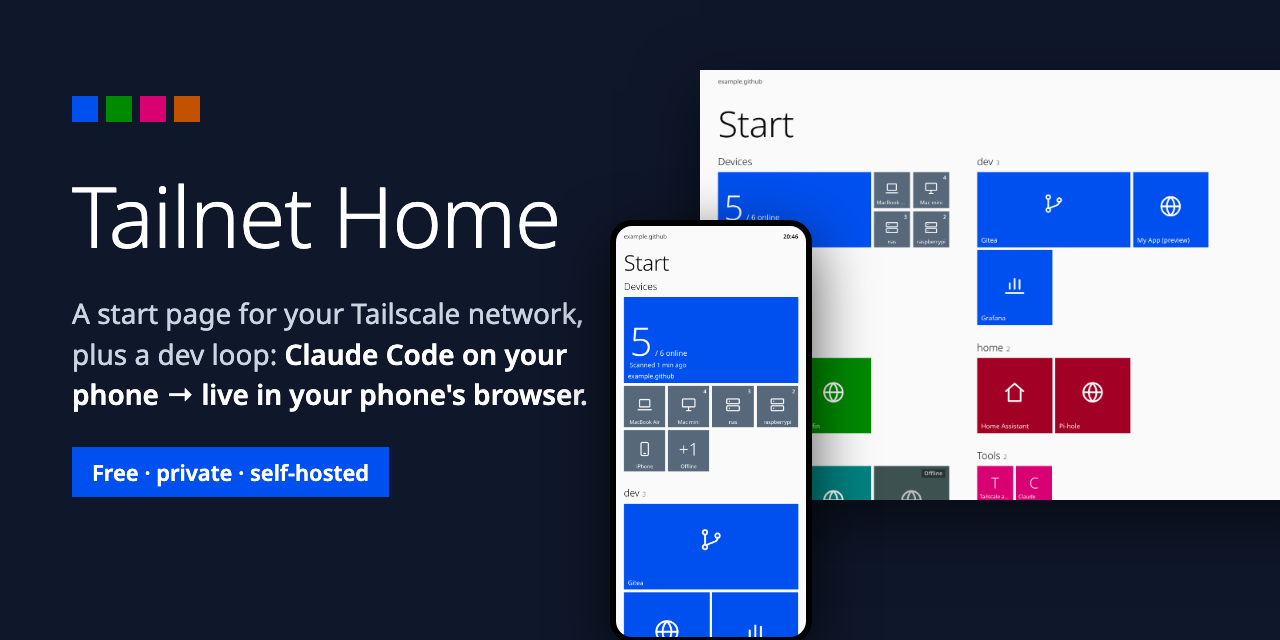
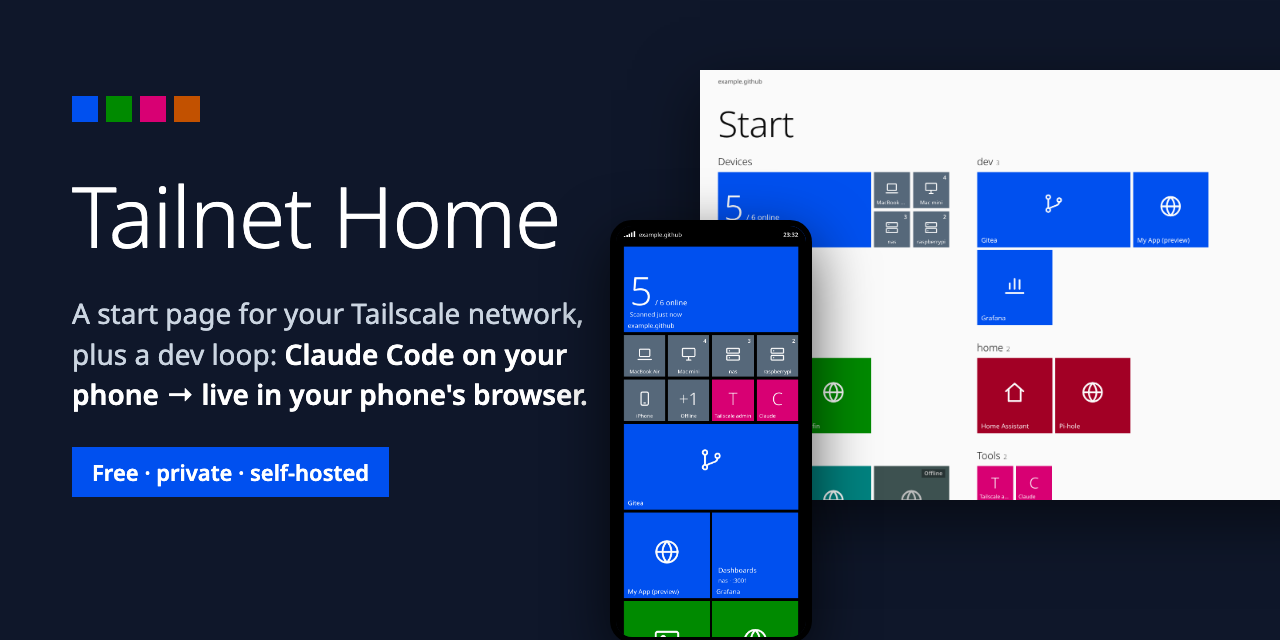
Make the phone layout feel like a Windows Phone 8.1 Start screen
- Black background, no title or group headers; all tiles flow into one
  4-column grid (group colors still tell them apart)
- Status bar with signal bars for the share of devices online
- Turnstile entrance: tiles swing in around the screen's left edge
- → button opens an A–Z list of all services; back gesture closes it
- Desktop layout unchanged; README phone screenshot and social preview updated

Claude-Session: https://claude.ai/code/session_01DGvx2EKGsNoc8kxAKM9xUm

Changed region(s): [[0.4688, 0.3438, 0.6562, 1.0]]

diff --git a/public/index.html b/public/index.html
@@ -121,6 +121,44 @@
            transform: translateY(-100%); transition: transform .35s var(--metro); }
   .toast.show { transform: none; }
 
+  /* 应用列表（手机）：Windows Phone 开始屏幕右下角箭头进入的字母列表 */
+  .to-apps, .apps { display: none; }
+
+  /* ── 手机：照 Windows Phone 8.1 开始屏幕 ── */
+  @media (max-width: 640px) {
+    :root { --bg: #000; --fg: #fff; --fg-2: oklch(0.7 0 0); }
+    body { background: #000; }
+    .wrap { padding-top: max(env(safe-area-inset-top), 4px); }
+    .tray { position: sticky; top: 0; z-index: 2; background: #000; margin: 0 -16px; padding: 6px 16px 4px; color: var(--fg); }
+    .tray .sig { display: inline-flex; align-items: flex-end; gap: 2px; height: 12px; margin-right: 8px; vertical-align: -1px; }
+    .tray .sig i { width: 3px; background: var(--fg); opacity: .3; }
+    .tray .sig i.on { opacity: 1; }
+    h1, footer, .group h2 { display: none; }
+    /* 所有分组并成一张连续的 4 列网格，组间只靠颜色区分 */
+    .groups { display: grid; grid-template-columns: repeat(4, var(--u)); grid-auto-rows: var(--u);
+              gap: var(--g); grid-auto-flow: row dense; align-items: stretch; margin-top: 12px; }
+    .group, .grid { display: contents; }
+    .note { grid-column: 1 / -1; grid-row: span 3; }
+    /* 转门动画：磁贴绕屏幕左缘翻入，origin 由脚本按位置设置 */
+    .tile.turn { animation: turnstile .55s var(--metro) backwards; }
+    @keyframes turnstile { from { opacity: 0; transform: perspective(900px) rotateY(-80deg); } }
+
+    .to-apps { display: grid; place-items: center; width: 44px; height: 44px; margin: 24px 0 0 auto;
+               border: 2px solid var(--fg); border-radius: 50%; }
+    .to-apps svg { width: 20px; height: 20px; fill: none; stroke: currentColor; stroke-width: 2; }
+    .apps { display: block; position: fixed; inset: 0; z-index: 3; background: #000; overflow-y: auto;
+            padding: max(env(safe-area-inset-top), 16px) 16px 48px; transform: translateX(100%); visibility: hidden;
+            transition: transform .45s var(--metro), visibility 0s .45s; }
+    .apps.open { transform: none; visibility: visible; transition: transform .45s var(--metro); }
+    .apps h3 { width: 48px; height: 48px; margin: 18px 0 8px; display: flex; align-items: flex-end; padding: 0 0 3px 5px;
+               border: 2px solid var(--cobalt); color: var(--fg); font: 300 30px/1 var(--font); }
+    .apps a { display: flex; align-items: center; gap: 12px; padding: 4px 0; font: 300 20px/1.2 var(--font); }
+    .apps a > span:first-child { flex: none; width: 48px; height: 48px; display: grid; place-items: center; background: var(--c, var(--cobalt)); }
+    .apps a svg { width: 26px; height: 26px; fill: none; stroke: #fff; stroke-width: 1.6; stroke-linecap: round; stroke-linejoin: round; }
+    .apps a .ch { font: 300 26px/1 var(--font); color: #fff; }
+    .apps a small { display: block; font-size: 12px; color: var(--fg-2); }
+  }
+
   @media (prefers-reduced-motion: reduce) {
     *, *::before, *::after { animation: none !important; transition: none !important; }
   }
@@ -134,7 +172,9 @@
     <div class="group"><div class="grid"><div class="tile w skel"></div><div class="tile m skel"></div></div></div>
   </main>
   <footer id="keys"></footer>
+  <button class="to-apps" id="to-apps"><svg viewBox="0 0 24 24" aria-hidden="true"><path d="M4 12h15M13 6l6 6-6 6"/></svg></button>
 </div>
+<nav class="apps" id="apps"></nav>
 <div class="toast" id="toast" role="status"></div>
 
 <script>
@@ -158,6 +198,7 @@ const I18N = {
     copied: v => `Copied ${v}`, sep: ', ',
     loadFail: '<strong>Can’t load the service list</strong>data.json failed to load: the scan may not have run yet, or the network is down.',
     retry: 'Reload',
+    allApps: 'All services',
     keys: '<kbd>↑ ↓</kbd> select　<kbd>↵</kbd> open　<kbd>⌘↵</kbd> new tab　<kbd>Esc</kbd> show all　·　rescanned every 10 min',
   },
   zh: {
@@ -171,6 +212,7 @@ const I18N = {
     copied: v => `已复制 ${v}`, sep: '，',
     loadFail: '<strong>暂时读不到服务列表</strong>data.json 加载失败：可能是扫描任务还没跑过，或网络中断。',
     retry: '重新加载',
+    allApps: '全部服务',
     keys: '<kbd>↑ ↓</kbd> 选择　<kbd>↵</kbd> 打开　<kbd>⌘↵</kbd> 新标签　<kbd>Esc</kbd> 返回全部　·　每 10 分钟自动扫描',
   },
 };
@@ -182,6 +224,8 @@ function setLang(dataLang) {
   document.documentElement.lang = lang === 'zh' ? 'zh-CN' : 'en';
   $('title').textContent = T.start;
   $('keys').innerHTML = T.keys;
+  $('to-apps').setAttribute('aria-label', T.allApps);
+  $('apps').setAttribute('aria-label', T.allApps);
 }
 setLang();
 const OTHER = '\0other';   // 未打标签的分组，显示时再翻译
@@ -380,7 +424,48 @@ function render() {
   main.innerHTML = html;
   state.sel = Math.min(state.sel, Math.max(n - 1, 0));
   if (!state.animate) main.querySelectorAll('.group').forEach(el => el.style.animation = 'none');
+  else if (phone.matches) turnstile(main);
+  renderApps();
 }
+
+const phone = matchMedia('(max-width: 640px)');
+
+// 先左列后右列、自上而下依次翻入，转轴都在屏幕左缘
+function turnstile(root) {
+  const left = root.getBoundingClientRect().left;
+  root.querySelectorAll('.tile').forEach(t => {
+    const r = t.getBoundingClientRect();
+    if (r.top > innerHeight) return;
+    t.style.transformOrigin = `${left - r.left}px 50%`;
+    t.style.animationDelay = `${Math.round(r.top / 9 + (r.left - left) / 6)}ms`;
+    t.classList.add('turn');
+    t.addEventListener('animationend', () => { t.classList.remove('turn'); t.style.transformOrigin = ''; }, { once: true });
+  });
+}
+
+function renderApps() {
+  const { data } = state;
+  const items = [
+    ...data.services.map(s => ({ name: s.name, url: resolveUrl(s, data.devices), sub: s.device, icon: svg(glyphOf(s)) })),
+    ...(data.bookmarks || []).map(b => ({ name: b.name, url: b.url, sub: b.note || '', icon: `<span class="ch">${esc(([...b.name.trim()][0] || '?').toUpperCase())}</span>` })),
+  ].sort((a, b) => a.name.localeCompare(b.name, undefined, { sensitivity: 'base' }));
+  let html = '', last = '';
+  for (const it of items) {
+    const k = /^[a-z]/i.test(it.name) ? it.name[0].toUpperCase() : '#';
+    if (k !== last) { html += `<h3>${k}</h3>`; last = k; }
+    html += `<a href="${esc(it.url)}" data-app="${esc(it.url)}"><span>${it.icon}</span><span>${esc(it.name)}${it.sub ? `<small>${esc(it.sub)}</small>` : ''}</span></a>`;
+  }
+  $('apps').innerHTML = html;
+}
+
+// 应用列表走浏览器历史，手机上的返回手势能关掉它
+function openApps(open) {
+  if (open === $('apps').classList.contains('open')) return;
+  $('apps').classList.toggle('open', open);
+  if (open) { $('apps').scrollTop = 0; history.pushState({ apps: 1 }, ''); }
+  else if (history.state?.apps) history.back();
+}
+addEventListener('popstate', () => $('apps').classList.remove('open'));
 
 // ── 动态磁贴：随机挑一块带背面的磁贴向上滑出，几秒后滑回 ──
 function livePeek() {
@@ -442,6 +527,9 @@ function select(i) {
 }
 
 document.addEventListener('click', e => {
+  if (e.target.closest('#to-apps')) { openApps(true); return; }
+  const app = e.target.closest('[data-app]');
+  if (app && !e.metaKey && !e.ctrlKey && e.button === 0) { e.preventDefault(); go(app.dataset.app, false); return; }
   if (e.target.closest('#more')) { state.showOffline = !state.showOffline; refresh(); return; }
   const cp = e.target.closest('[data-copy]');
   if (cp) { navigator.clipboard?.writeText(cp.dataset.copy).then(() => toast(T.copied(cp.dataset.copy))); return; }
@@ -452,6 +540,7 @@ document.addEventListener('click', e => {
 });
 
 document.addEventListener('keydown', e => {
+  if (e.key === 'Escape' && $('apps').classList.contains('open')) { openApps(false); return; }
   if (e.key === 'Escape') { state.device = null; state.sel = 0; refresh(); return; }
   const move = { ArrowDown: 1, ArrowUp: -1, ArrowRight: 1, ArrowLeft: -1 }[e.key];
   if (move) { e.preventDefault(); select(state.sel + move); return; }
@@ -468,7 +557,9 @@ function load() {
       state.data = data;
       setLang(data.lang);
       document.title = data.title;
-      $('tray-l').textContent = data.tailnet;
+      const bars = Math.ceil(data.devices.filter(d => d.online).length / Math.max(data.devices.length, 1) * 5);
+      $('tray-l').innerHTML = `<span class="sig" aria-hidden="true">${[1, 2, 3, 4, 5].map(i =>
+        `<i class="${i <= bars ? 'on' : ''}" style="height:${i * 20}%"></i>`).join('')}</span>${esc(data.tailnet)}`;
       loadState();
       render();
       setInterval(() => { state.animate = false; render(); }, 60000);   // 刷新「扫描于」时间

diff --git a/README.md b/README.md
@@ -29,6 +29,7 @@ A start page for your [Tailscale](https://tailscale.com) network — every devic
 - Real reachability check done by the scanner (not the browser), shown as tile status
 - Keyboard first: `↑↓` select, `↵` open, `⌘↵` open in new tab, `Esc` clear filter; filter by tag or device
 - Most-clicked services float to the top (stored in your browser only)
+- On a phone it turns into a Windows Phone 8.1 Start screen: black background, one 4-column tile grid, turnstile animation, and an A–Z list behind the → button
 - English and Chinese UI, following the browser (or force it with `?lang=en` / `"lang"` in `services.json`)
 - One static HTML file + one stdlib-only Python script. No build step, no framework, no database
 

diff --git a/README.zh-CN.md b/README.zh-CN.md
@@ -29,6 +29,7 @@
 - 可达性由扫描端实测（不受浏览器限制），显示在磁贴状态上
 - 键盘直达：`↑↓` 选择、`↵` 打开、`⌘↵` 新标签打开、`Esc` 清除筛选；按标签或设备筛选
 - 常用服务按点击次数自动排前（只存在本浏览器）
+- 手机上切换成 Windows Phone 8.1 开始屏幕：黑底、4 列连续磁贴、转门动画，右下角 → 进入字母排序的全部服务列表
 - 中英文界面，跟随浏览器语言（也可用 `?lang=zh` 或 `services.json` 里的 `"lang"` 指定）
 - 一个静态 HTML + 一个只用标准库的 Python 脚本，无构建、无框架、无数据库
 
